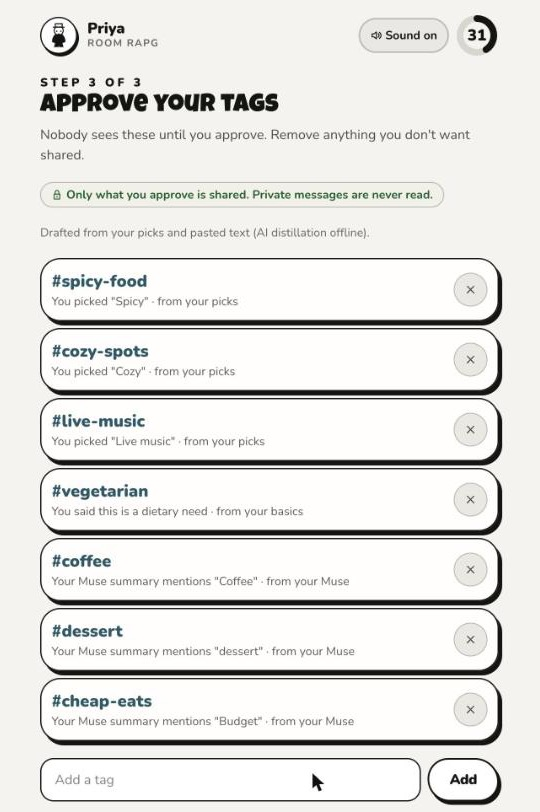
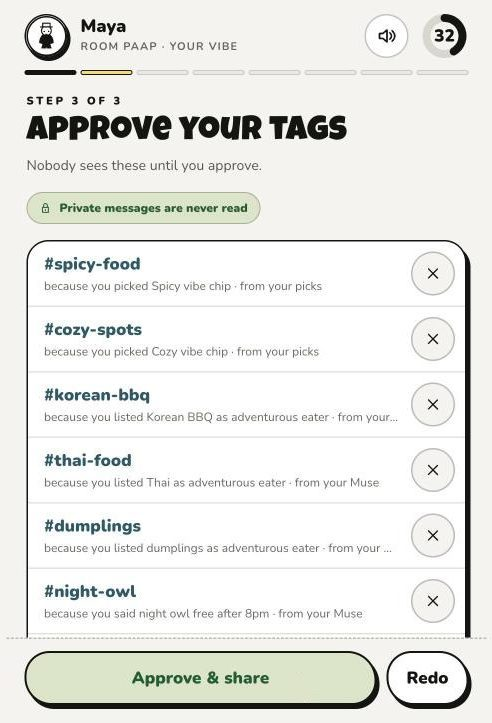
README: current game, hosted worker and new screenshots from a live game

Changed region(s): [[0.0305, 0.0, 0.9756, 1.0], [0.6707, 0.0, 0.9451, 0.0913]]

diff --git a/README.md b/README.md
@@ -1,55 +1,69 @@
 # Hear Me Out ⚖
 
-**The party game that turns “idk, where do you want to go?” into an actual plan.**
+**The party game that turns "idk, where do you want to go?" into an actual plan.**
 
-Everyone joins from their own browser window; a shared TV runs the show. The AI finds **real places nearby** that fit the whole group (budget, diet, distance, open hours), then assigns each player a place to **defend, often not their own favorite**, with a personalized prompt (“Defend Barrio like a sunny taco tour guide with margarita sparkle”). Players pitch for 30 seconds, the AI **fact-checks claims live** against the venue data (“OBJECTION SUSTAINED: it closes at 9 PM, not midnight!”), everyone votes, and the winner becomes **the plan**: a time that works for everyone, an invite poster, a calendar invite and live RSVPs. A public **Strangers** mode turns it into small meetups: **Find my people** matches you with 2–3 strangers who share your vibe (no host, no TV, no bots), and two groups that pick the same place can **merge tables**.
+Play it at **https://hear-me-out-jose.vercel.app**.
 
-![TV: tonight's contestants](docs/screenshots/finalists.jpg)
+Play with friends you already have, or use **Find my people** to meet new people nearby. The AI host (the Judge) finds **real places nearby** that fit the whole group: budget, diet, distance and open hours. Each player is assigned a place to **defend, usually not their own favorite**, with a style to argue in and real facts to use. Pitches last up to 30 seconds. While they play, listeners react, lean toward a place on a **live sway meter**, and object, and the Judge **fact-checks claims** against the venue data ("OBJECTION SUSTAINED: closes at 10 PM, not 2am!"). Everyone votes privately, and the winner becomes **the plan**: a time that works for everyone, an invite, a poster, a calendar event and RSVPs you can share to Instagram or Facebook.
 
-| Player: approve your tags | TV: a pitch + the Judge's fact check |
+![Home](docs/screenshots/home.jpg)
+
+| TV: tonight's contestants | TV: a pitch, the Judge's ruling and the live sway |
 | --- | --- |
-| ![Approve tags](docs/screenshots/approve-tags.jpg) | ![Playback](docs/screenshots/playback.jpg) |
+| ![Finalists](docs/screenshots/finalists.jpg) | ![Playback](docs/screenshots/playback.jpg) |
 
-| TV: the verdict | TV: the plan, booked, with the WhatsApp group |
+| Phone: approve your tags | Phone: your case file | Phone: the plan |
+| --- | --- | --- |
+| ![Approve tags](docs/screenshots/approve-tags.jpg) | ![Case file](docs/screenshots/case-file.jpg) | ![Plan on a phone](docs/screenshots/plan-phone.jpg) |
+
+| TV: the verdict | TV: the plan |
 | --- | --- |
 | ![Results](docs/screenshots/results.jpg) | ![Plan](docs/screenshots/plan.jpg) |
 
-## A round in 6 minutes
+*Screenshots are from a live game on the deployed site: real Google Maps places in Hayes Valley, San Francisco, with live Muse and Apify calls.*
 
-1. **Lobby** — the TV shows a 4-letter code. Players join with a name and an emoji; the host can add bots. Picking a category and a place starts the venue scout right away.
-2. **Bring your Muse** — budget, diet, travel time, free time and vibe chips; optionally paste what your own Meta AI knows about you, or link your own public social account. Muse distills draft tags; **you approve every tag before anyone sees it**.
-3. **Hot takes** — a personalized either/or question each, while real venues are scraped and curated.
-4. **Finalists** — 2–4 real places that pass everyone's hard constraints, with a fit line per person.
-5. **Secret ballot** → **assignments** — you defend a place you probably didn't pick, in an AI-written persona, with 3 hints from real venue data.
-6. **Pitches** — record 30 s (or type). The TV plays each one with captions, flying reactions and OBJECTION!s; the Judge rules on the facts.
-7. **Vote → verdict** — winner, tie-break by group fit, **Most Persuasive** (who flipped the most votes) and **Best Line**.
-8. **The plan** — the earliest slot everyone can make, invite copy, “why this works for everyone” naming each person, Muse Image cover art, `.ics` + Google Calendar, Maps and RSVPs.
+## A round
+
+1. **Lobby.** The TV shows a 4-letter room code and players join from their phones (up to 8, and the host can add bots). The host picks Food, Activity or Movie and a place, which starts the live venue search right away.
+2. **Your vibe.** Each player sets a budget, how far they'll travel, when they're free tonight, any dietary needs and a few vibe chips. Then comes the Muse step, and they can optionally link their own public Instagram, TikTok or Facebook page. Muse Spark drafts interest tags with a reason for each, and **you approve every tag before anyone sees it**.
+3. **Hot takes.** A personalized either/or question for each player while real venues are scraped and curated.
+4. **Finalists.** Two to four real places that pass everyone's hard constraints, each with a photo, rating, price, travel time, hours and a fit line per person.
+5. **Secret ballot, then case files.** Everyone privately picks a favorite. Then each player gets a place to defend, usually not their pick, with a style to argue in and three facts from the real venue data. Extra players become co-counsel.
+6. **Pitches.** Record up to 30 seconds (captioned by Muse Voice Transcribe) or type a pitch (read aloud by the browser). During playback, listeners react (Funny, Good point, Not convinced), privately lean toward a place, and can object. The TV shows only the anonymous sway totals and who is most persuasive right now. The Judge rules on claims about hours, ratings, reviews and price, and checks diet claims against dishes on the venue's own website.
+7. **Vote and verdict.** One private vote each, for the place and not the person. The verdict shows the winner, ties broken by group fit, plus **Most Persuasive** (who swung the most people) and **Best Line**.
+8. **The plan.** The earliest slot everyone can make, nudged away from the busiest hours using Google's popular times. It comes with invite copy, a fit line for each person, a Muse Image cover, RSVPs (I'm in, Maybe, Can't), a `.ics` file and a Google Calendar link, Maps directions, icebreakers for the table, and sharing to Instagram or Facebook.
+
+## Find my people (strangers mode)
+
+![Find my people](docs/screenshots/meet.jpg)
+
+Pick an occasion, an area, a first name and a little person, then build your vibe like above. The queue puts **3 or 4 people who share the most approved tags** into a host-less room, and the whole game runs on their phones. Public meetups are 18+, use first names only, meet at public venues, and show the exact address only after you RSVP. Three "I'm in"s confirm a meetup, every player can be blocked or reported, and two groups that pick the same place can vote to **merge tables**. There are also open public lobbies to host or browse from the home page.
 
 ## Architecture
 
 ```mermaid
 flowchart LR
-  subgraph Browsers["Browser windows (one SpacetimeDB identity per tab)"]
+  subgraph Browsers["Browsers (one SpacetimeDB identity per tab)"]
     TV["TV /host/:code"]
-    P1["Player /play/:code"]
-    P2["Player /play/:code"]
+    P1["Phone /play/:code"]
+    P2["Phone /play/:code"]
   end
 
   subgraph STDB["SpacetimeDB module (TypeScript): the live world state"]
     R["Reducers: rooms, phases, votes, tallies,<br/>assignments, time slots, matching, merges"]
-    T[("Tables: room, player, option, pitch,<br/>vote, plan, rsvp, media (audio + posters), …")]
-    PV[("Private: prevote, profile_draft, ai_job,<br/>venue_cache, lobby_match → sender/admin views")]
+    T[("Tables: room, player, option, pitch, vote,<br/>plan, rsvp, menu_proof, media (audio + posters), …")]
+    PV[("Private: prevote, lean, profile_draft, ai_job, venue_cache,<br/>lobby_match → my_* views, room_sway totals, admin views")]
     S["Schedule tables: phase deadlines, janitor"]
     E["Event table: reactions"]
   end
 
-  subgraph ORCH["AI orchestrator (Node): a SpacetimeDB client"]
+  subgraph ORCH["Judge worker (Node): a SpacetimeDB client, hosted as a Vercel daemon"]
     J["Claims ai_jobs via admin_jobs view<br/>→ finish_* reducers"]
     F["Fixtures + offline fallbacks"]
   end
 
   Muse["Meta Muse<br/>Spark · Voice Transcribe · Image"]
-  Apify["Apify<br/>Google Maps Scraper · vibe-profiler"]
+  Apify["Apify<br/>Google Maps · Website Content Crawler · vibe-profiler"]
 
   Browsers <-- "subscriptions + reducer calls (WebSocket)" --> STDB
   ORCH <-- "subscriptions + reducer calls (admin identity)" --> STDB
@@ -58,32 +72,33 @@ flowchart LR
   J -.-> F
 ```
 
-**Deterministic logic lives in reducers** (phase machine on schedule tables, joining, vote tallying and tie-breaks, who-defends-what, availability intersection and slot choice, lobby matching, merge offers, RSVPs, authorization). **Fuzzy and external work lives in the orchestrator**: reducers insert an `ai_job`, the orchestrator claims it through an admin-only view, calls Muse or Apify, and reports back with a typed `finish_*` reducer. Every screen updates live through subscriptions. The orchestrator only makes outgoing connections, so it can run on any Mac with no public URL.
+**Deterministic logic lives in reducers:** the phase machine on schedule tables, joining, vote tallying and tie-breaks, who defends what, availability intersection and slot choice, lobby and queue matching, merge offers, RSVPs and authorization. **Fuzzy and external work lives in the Judge worker.** A reducer inserts an `ai_job`, the worker claims it through an admin-only view, calls Muse or Apify, and reports back with a typed `finish_*` reducer. Every screen updates live through subscriptions. The worker only makes outgoing connections, so it runs anywhere: as a Vercel daemon next to the site, or on a laptop.
 
-**Never lets the demo die:** every Muse/Apify call has a timeout and an offline fallback, and the module has a deterministic fallback for every job kind (applied by `fail_job` or by the janitor if a job gets stuck). `DEMO_MODE=1` plays the whole game on recorded real data.
+**The game never stalls:** every Muse and Apify call has a timeout and an offline fallback, and the module has a deterministic fallback for every job kind (applied by `fail_job`, or by the janitor if a job gets stuck). `DEMO_MODE=1` plays the whole game on recorded real data.
 
 ## How we use each sponsor
 
-### SpacetimeDB — the backend, not an add-on
-- **All game state** in tables: rooms, players, profiles, finalists, assignments, pitches, warm-ups, votes, awards, plans, RSVPs, merge offers.
-- **Media in the database:** recorded pitch audio and the poster are stored as bytes in the `media` table (tested up to 1.5 MB per reducer call); only the TV subscribes to a room's audio.
-- **Server-authoritative timers:** `phase_timer` schedule table → `advance_phase`; stale timers are ignored by `phase_seq`. A repeating `janitor` requeues stuck AI jobs and cleans up.
-- **Event table:** `reaction` broadcasts emoji reactions and OBJECTION!s without storing them.
-- **Privacy at the database layer:** `prevote`, `profile_draft`, `ai_job`, `venue_cache` and `lobby_match` are private tables, exposed only through views scoped to `ctx.sender` (`my_prevote`, `my_profile_draft`, `my_lobby_matches`) or to the admin identity (`admin_jobs`, `admin_venue_cache`).
-- **The AI is a SpacetimeDB client:** the orchestrator connects with the publisher's identity (stored by `init`) and every worker reducer checks it.
-- Strangers mode: vibe match scores, block & report, merge-table majorities, all in reducers.
+### SpacetimeDB: the backend, not an add-on
+- **All game state** lives in tables: rooms, players, profiles, finalists, assignments, pitches, leans, warm-ups, votes, awards, menu proofs, plans, RSVPs and merge offers.
+- **Media in the database:** recorded pitch audio and the Muse Image poster are stored as bytes in the `media` table, and only the TV subscribes to a room's audio.
+- **Server-authoritative timers:** the `phase_timer` schedule table calls `advance_phase`, and stale timers are ignored by `phase_seq`. Phases also end early once everyone is ready. A repeating `janitor` requeues stuck AI jobs and cleans up.
+- **Event table:** `reaction` broadcasts reactions and OBJECTION!s without storing them.
+- **Privacy at the database layer:** `prevote`, `lean`, `profile_draft`, `ai_job`, `venue_cache` and `lobby_match` are private tables. They are exposed only through views scoped to `ctx.sender` (`my_prevote`, `my_lean`, `my_profile_draft`, `my_lobby_matches`), as anonymous totals (`room_sway`), or to the admin identity (`admin_jobs`, `admin_venue_cache`).
+- **The AI is a SpacetimeDB client:** the worker connects with the publisher's identity (stored by `init`), and every worker reducer checks it.
+- **Strangers mode:** the matchmaking queue, block and report, and merge-table majorities all run in reducers.
 
 ### Meta Muse
-- **Muse Spark** (`muse-spark-1.3`, structured outputs + zod validation + one retry): profile distillation, warm-up questions, curation with per-person fit lines, personalized defense personas + hints, live fact-checking, bot pitches, best line, invite copy and “why this works for everyone”, icebreakers, lobby match blurbs, merge intros. Rules live in a developer message; `reasoning_effort` is minimal/low in the game loop and medium for curation.
+- **Muse Spark** (`muse-spark-1.3`, structured outputs, zod validation and one retry): profile tags, warm-up questions, curation with per-person fit lines, case-file styles and hints, live fact-checking, bot pitches, best line, invite copy, icebreakers, lobby match blurbs and merge intros.
 - **Muse Voice Transcribe** (`muse-voice-transcribe-1.0`): every recorded pitch, converted with ffmpeg to 24 kHz mono WAV.
-- **Muse Image** (`muse-image-1.0`): the vertical invite poster, stored in SpacetimeDB.
-- “Bring your Muse”: a copyable prompt for your own Meta AI app; you paste what you choose to share.
+- **Muse Image** (`muse-image-1.0`): the event cover on the plan, stored in SpacetimeDB.
+- The Muse account connection, its connectors and the table booking shown in the UI are simulated in this build (see `DECISIONS.md` #40): nothing is read from anyone's accounts and nothing is booked.
 
 ### Apify
-- **Google Maps Scraper** (`compass/crawler-google-places`): real venues around the room, started asynchronously in the lobby and hidden behind the profile + warm-up steps, cached 6 hours in SpacetimeDB, with partial results on timeout. Hours, price ranges, Google's “Offerings” (e.g. *Vegan options*) and review snippets drive the hard filters and the fact-checker.
-- **vibe-profiler** (our custom actor, `actors/vibe-profiler`): turns a player's own public Instagram / TikTok / Facebook posts (with consent) into interest tags. Raw posts never reach our database.
+- **Google Maps Scraper** (`compass/crawler-google-places`): real venues around the room, scraped live for every game. The scrape starts in the lobby and runs while players fill in profiles and hot takes, and returns partial results if it hits its 85-second cap. Hours, price ranges, Google's "Offerings" (e.g. *Vegan options*), review snippets and popular times drive the filters, the fact-checker and the plan time.
+- **Website Content Crawler** (`apify/website-content-crawler`): reads each finalist's own website to find real dishes that back up diet claims.
+- **vibe-profiler** (our custom actor, `actors/vibe-profiler`): turns a player's own public Instagram, TikTok or Facebook posts (with consent) into interest tags. Raw posts never reach our database.
 
-## Run it
+## Run it locally
 
 Requirements: Node 22+, pnpm, the [SpacetimeDB CLI](https://spacetimedb.com/install) (`spacetime login` once).
 
@@ -92,10 +107,10 @@ pnpm install
 spacetime start                      # local SpacetimeDB on :3000 (separate terminal)
 pnpm db:publish && pnpm db:generate  # publish the module, generate client bindings
 cp .env.example .env                 # add META_API_KEY + APIFY_TOKEN; DEMO_MODE=0 for live AI
-pnpm dev                             # orchestrator + web on http://localhost:5173
+pnpm dev                             # worker + web on http://localhost:5173
 ```
 
-Open `http://localhost:5173` → **Friends game** in one window (the TV), then join from other windows or Macs with the code. Add bots to play solo.
+Open `http://localhost:5173` and choose **Friends game** in one window (the TV), then join from other windows or phones with the code. Add bots to play solo.
 
 `DEMO_MODE=1` (or a missing key) runs entirely on recorded real Apify data and offline content, clearly labeled on screen.
 
@@ -103,40 +118,42 @@ Open `http://localhost:5173` → **Friends game** in one window (the TV), then j
 
 | Command | What it proves |
 | --- | --- |
-| `pnpm test` | 30 unit tests: hours parsing, price ranges, slots, assignment, tallies, fact-checker, curation on real fixtures, ffmpeg conversion, `.ics` |
-| `pnpm sim` | A full Friends round lobby → plan against the real database (24 checks, incl. privacy and a 208 KB recorded pitch) |
-| `pnpm sim --muse` | The same round on live Muse (transcription of real speech, poster image) |
-| `pnpm sim --live` | The same round with a live Apify scrape |
+| `pnpm test` | 129 unit tests: hours parsing, prices, slots, assignment, tallies, fact-checker, menu evidence, curation on real fixtures, category rules, ffmpeg conversion, `.ics`, the worker runner |
+| `pnpm sim` | A full Friends round from lobby to plan against a real local database (36 checks, including privacy and a recorded pitch) |
+| `pnpm sim --muse` / `pnpm sim --live` | The same round on live Muse, or with a live Apify scrape |
 | `pnpm sim:strangers` | Lobby browser, vibe match, safety rules, meetup confirmation and a two-room merge (15 checks) |
-| `pnpm sim:match` | Find my people: 3 strangers queue, get matched into one server-owned room and confirm a meetup |
+| `pnpm sim:match` | Find my people: strangers queue, get matched into one server-owned room and confirm a meetup (16 checks) |
+| `pnpm exec tsx scripts/sim-completion.ts`, `scripts/sim-categories.ts` | Typed-pitch audits of complete Food, Activity and Movie games (need the local fixture worker running) |
 | `cd actors/vibe-profiler && npx vitest run --config vitest.config.ts` | 49 tests for the vibe-profiler actor (normalization, enrichment, Muse parsing) |
 | `pnpm demo:player CODE Name [pitch.webm]` | A scripted player that joins a real room from the terminal (handy for solo testing) |
 | `pnpm typecheck` | Every package |
 
-## Deploy (multiple Macs)
+## Deploy
 
-- **Database:** `pnpm db:maincloud` publishes the module to SpacetimeDB Maincloud. Set `SPACETIMEDB_URI=wss://maincloud.spacetimedb.com` for the web build and the orchestrator.
-- **Web:** `pnpm web:build:maincloud`, then `npx vercel deploy apps/web/dist --prod` (a static upload; the SPA rewrite ships inside `dist`). Every Mac opens the same HTTPS URL, so the mic works.
-- **Orchestrator:** `pnpm orchestrator` on the host Mac (outgoing connections only). Running a second copy is safe: `claim_job` is atomic.
-- Every game runs a live Apify scrape when a place is picked in the lobby (no reuse of earlier scrapes), so pick the place early; it takes up to ~85 s and falls back to recorded venues if it fails.
+- **Database:** publish the module to SpacetimeDB Maincloud (`pnpm db:maincloud`). The site and the worker must use the same database name.
+- **Hosted (recommended):** import the repo into Vercel with the project root at the repo root. `vercel.json` builds the site and runs the Judge worker as a Vercel daemon from `Dockerfile.worker`, so no laptop has to stay open. Secrets (`META_API_KEY`, `APIFY_TOKEN`, `SPACETIMEDB_TOKEN`) stay in Vercel's environment settings. Full steps and checks are in [`docs/VERCEL.md`](docs/VERCEL.md).
+- **Static site with a laptop worker:** run `pnpm web:build:maincloud`, then `npx vercel deploy apps/web/dist --prod`, and keep `pnpm orchestrator` running on one machine. A second worker is safe because `claim_job` is atomic.
+- Every game runs a live Apify scrape (results are never reused), so pick the place early in the lobby. A scrape takes up to about 85 seconds and falls back to recorded venues if it fails.
 
 ## Privacy & safety
 
-- Only tags a player approves are shared; drafts and pasted text live in a private table visible only to that player and the orchestrator. Private messages are never read.
-- Social linking requires “this is my account and I consent”; raw scraped posts are processed in memory and never written to the database.
-- Public meetups: 18+ confirmation, first names only, public venues only, neighborhood-level location until you RSVP, block & report on every player, and a meetup needs 3 RSVPs to be confirmed.
+- Only tags a player approves are shared. Drafts and pasted text live in a private table that only that player and the worker can see. Private messages are never read.
+- Linking a social account requires confirming "this is my account and I consent". Scraped posts are processed in memory and never written to the database.
+- Leans and secret picks are private: the TV only ever sees totals.
+- Public meetups: 18+ confirmation, first names only, public venues only, neighborhood-level location until you RSVP, block and report on every player, and 3 RSVPs to confirm a meetup.
 
 ## Repo layout
 
 ```
-apps/module         SpacetimeDB module (schema, reducers, phase machine, fallbacks, pure logic)
-apps/orchestrator   AI job runner: Muse, Apify, curation, fact-checking, fixtures
-apps/web            Vite + React TV and player screens
+apps/module           SpacetimeDB module (schema, reducers, phase machine, fallbacks, pure logic)
+apps/orchestrator     The Judge worker: Muse, Apify, curation, fact-checking, menu check, fixtures
+apps/web              Vite + React TV and phone screens
 actors/vibe-profiler  Custom Apify actor
-packages/bindings   Generated SpacetimeDB client bindings
-packages/shared     Venue normalization, hours, geo, diet evidence, .ics
-fixtures/           Recorded real Apify data for DEMO_MODE
-scripts/            Simulators
+packages/bindings     Generated SpacetimeDB client bindings
+packages/shared       Venue normalization, hours, geo, diet and menu evidence, .ics
+fixtures/             Recorded real Apify data for DEMO_MODE
+scripts/              Simulators and audits
+vercel.json, Dockerfile.worker   Hosted site + worker on Vercel
 ```
 
-Choices and deviations from the original plan are logged in [`DECISIONS.md`](DECISIONS.md); the demo script is in [`DEMO.md`](DEMO.md).
+Choices and deviations from the original plan are logged in [`DECISIONS.md`](DECISIONS.md), and the demo script is in [`DEMO.md`](DEMO.md). Contributors and coding agents start at [`AGENTS.md`](AGENTS.md).

diff --git a/STATUS.md b/STATUS.md
@@ -16,6 +16,8 @@ What everyone (people and agents) is doing on Hear Me Out. **Every push must upd
 
 ## Done recently
 
+- README rewritten for the current game (sway meter, menu check, Instagram/Facebook sharing, hosted Judge worker, test counts) with 9 new screenshots from a live game on the deployed site · Anish (Claude Code) · `codex/vercel-owned-deployment`
+
 - Hidden scratch note `apps/web/.flib.md` (ten nonsense commits) · Anish (Cursor Grok) · `codex/vercel-owned-deployment`
 
 - Deployed live-API Activity/Movie end-to-end audit, category-grounded personal fit and fresh Movie regression · Jose (Codex) · `codex/vercel-owned-deployment`
@@ -48,6 +50,11 @@ What everyone (people and agents) is doing on Hear Me Out. **Every push must upd
 - `hidden-gems`, `iteration-1`: the old Pitch Fight app (Next.js), superseded.
 
 ## Push log
+
+### 2026-10-25 · codex/vercel-owned-deployment · Anish (Claude Code)
+- **Changed:** README rewritten to match the current build: phones for players, the Muse step and approved tags, live sway meter, menu check for diet claims, Most Persuasive and Best Line, busyness-aware plan time, Instagram/Facebook sharing, Find my people, the Judge worker hosted as a Vercel daemon, no Apify reuse, and current test counts. It also says plainly that the Muse account connection and booking are simulated. New screenshots (home, finalists, playback with a sustained objection, approve tags, case file, verdict, TV plan, phone plan, Find my people) come from two live Food games in Hayes Valley on https://hear-me-out-jose.vercel.app (rooms PAAP and QTRU, typed pitches, two Apify scrapes).
+- **Verified:** `pnpm test` 129/129, `pnpm sim` 36 checks, `pnpm sim:strangers` 15, `pnpm sim:match` 16, vibe-profiler 49/49, all against a local server. Every claim in the README was checked against the code on this branch.
+- **Not done / unverified:** docs only, no code changes. Trov: not posted (no access).
 
 ### 2026-10-25 · codex/vercel-owned-deployment · Anish (Cursor Grok)
 - **Changed:** added a hidden scratch markdown file in the web app and ten nonsense commits on this branch.
